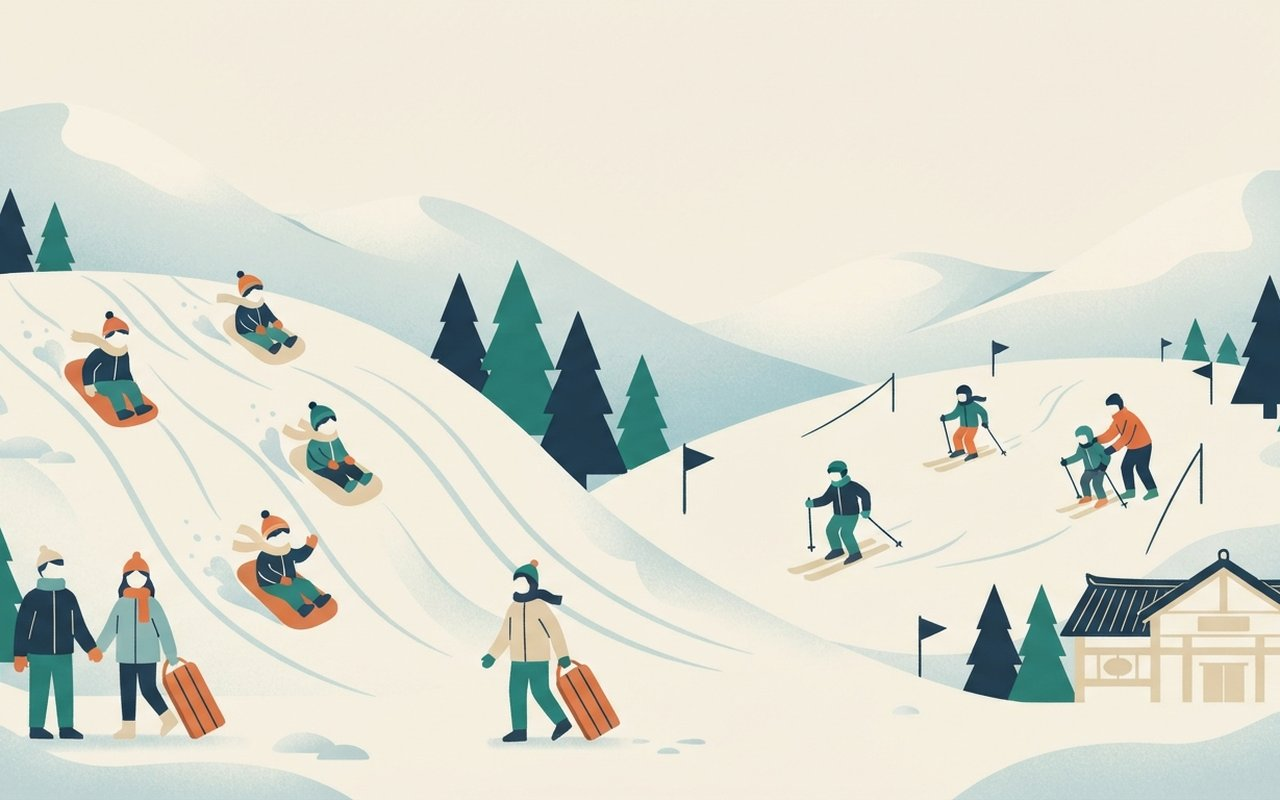
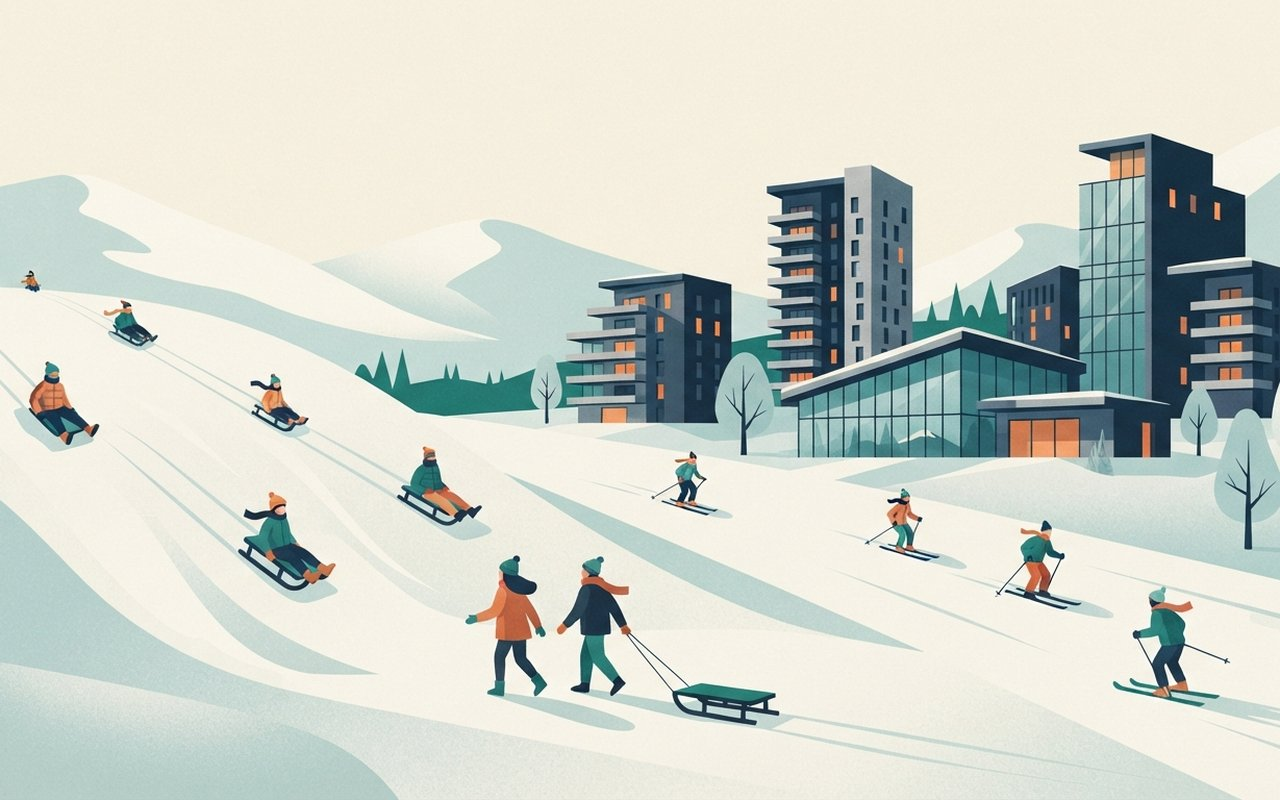
chore: update manifest.json, localize images, add audio, card images, reels [skip ci]

diff --git a/2026-11-27_travel-brief.html b/2026-11-27_travel-brief.html
@@ -241,6 +241,7 @@
       <p class="cn-steps" data-now="1">11/27 개장|12/18 심야스키|3/1 시즌 끝</p>
       <p class="cn-when">2026-11-27~2027-03-01</p>
       <p class="cn-img">A family snow sledding hill next to a gentle beginner ski slope at a modern ski resort in early winter, children on sleds, groomed snow, modern concrete condominium towers and a glass-fronted ski house in the background, no traditional, temple-style or Japanese-style wooden buildings, no curved tiled roofs, flat illustration, no text, no logos, no recognizable faces</p>
+      <img class="cn-gen" loading="lazy" src="img/gen/2026-11/2026-11-27_travel-brief/03.jpg" alt="AI 생성 일러스트">
     </div>
   </article>
 
